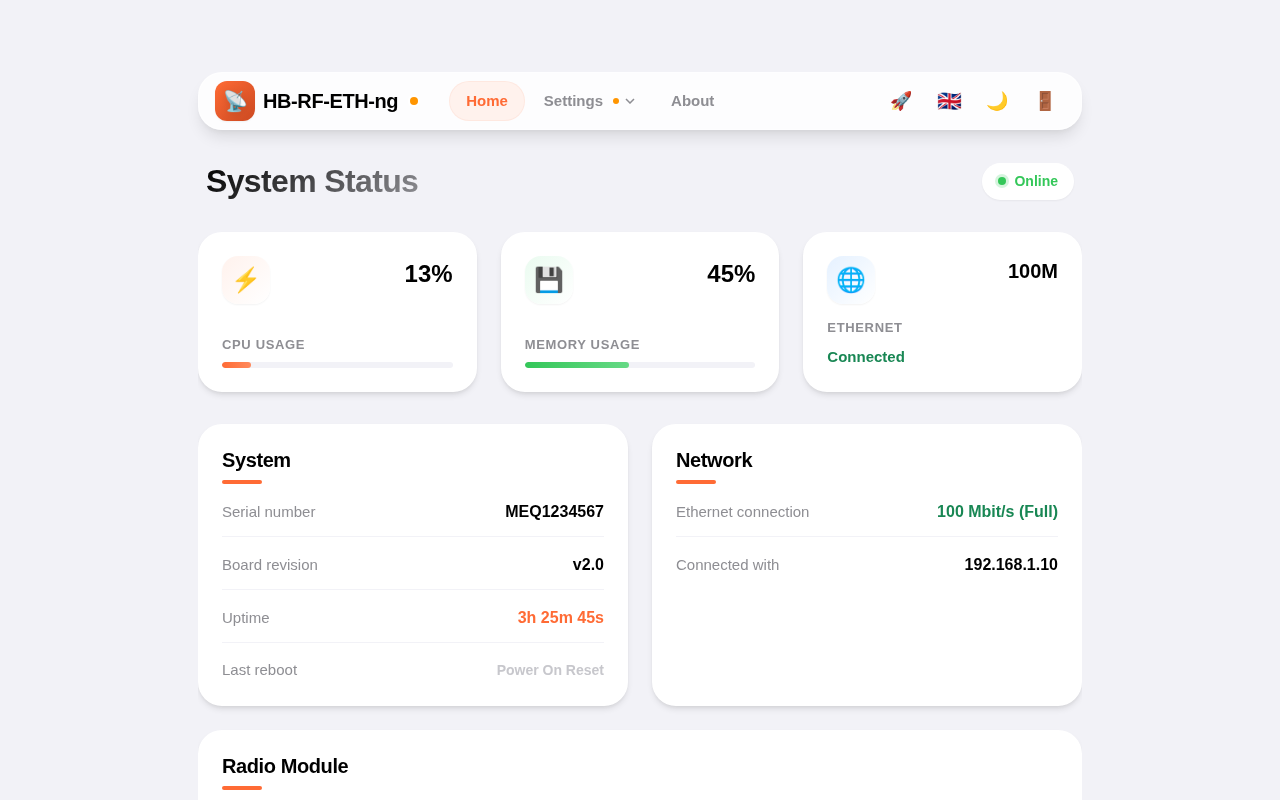
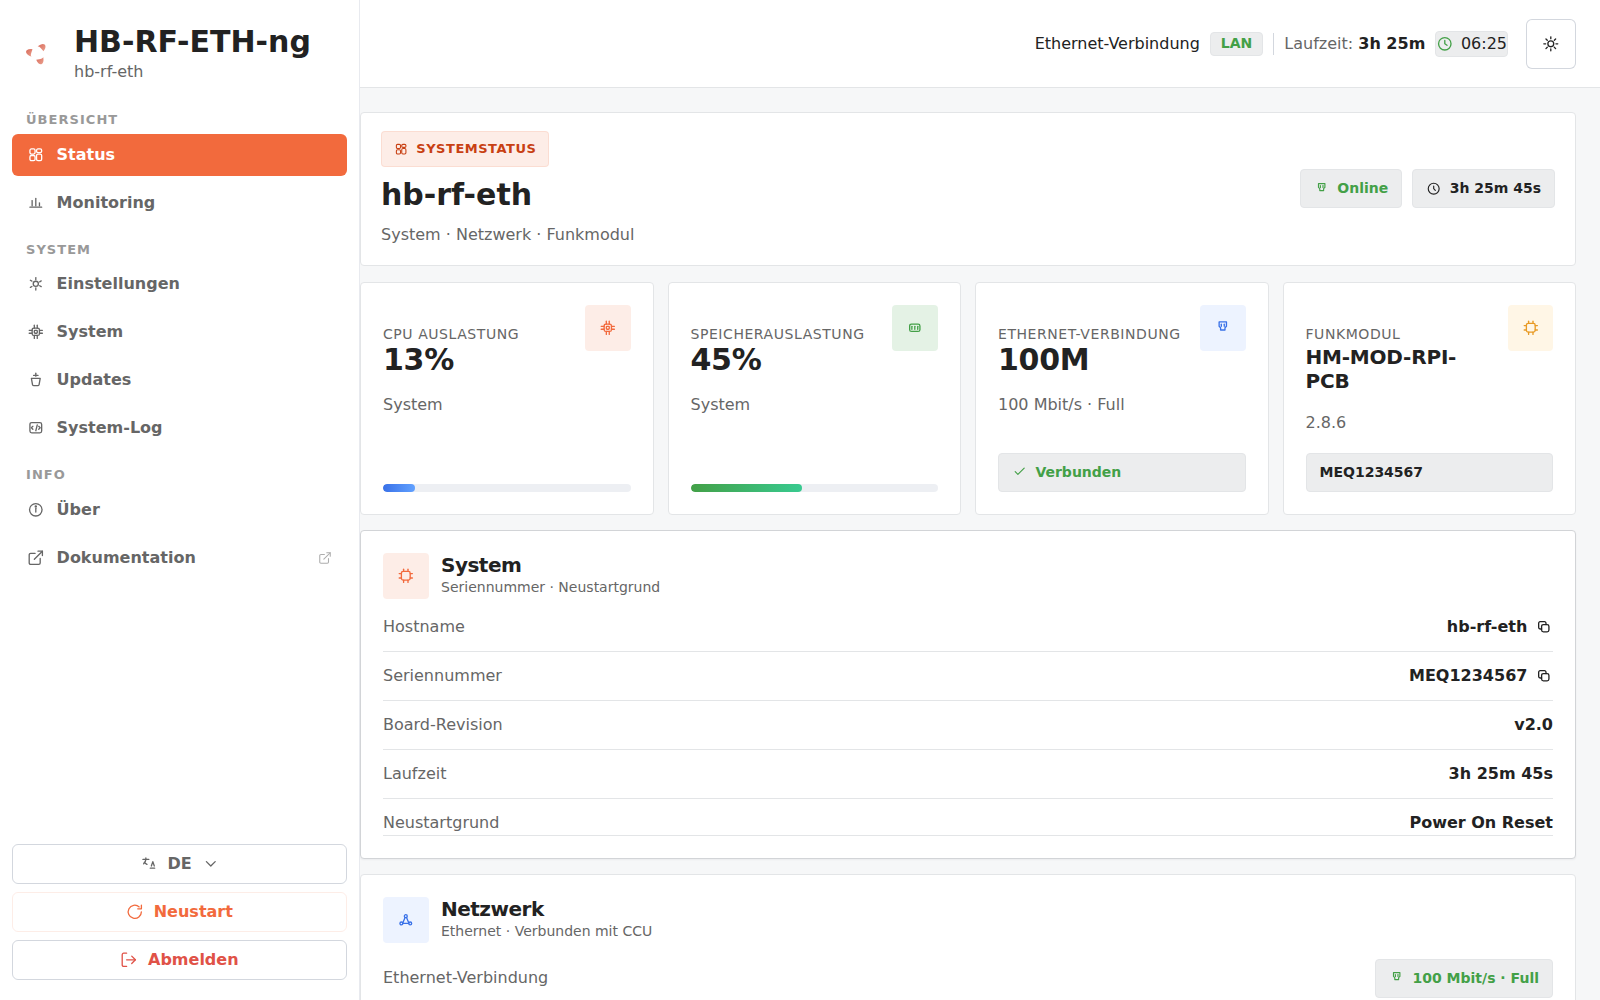
docs: refresh README screenshots from the current WebUI
Die README-Screenshots zeigten noch das alte Glass-UI (oranges Karten-
Layout mit Top-Navigation) und Funktionen, die es nicht mehr gibt --
etwa die Firmware-Seite mit "Netzwerk-Update" und "Firmware-Archiv".

Alle sieben Screenshots neu aus der laufenden WebUI erzeugt: aktuelle
Sidebar-Navigation, manueller Firmware-Upload, Monitoring mit MQTT /
CheckMK / Prometheus / Syslog / Notifications.

- generate_assets.spec.js: Viewport 1600x1000 statt 1280x800, Locale
  auf de-DE und Zeitzone auf Europe/Berlin gepinnt (die WebUI folgt
  sonst der Browsersprache), Mock-Version auf 2.2.7 gehoben, Hostname
  ergaenzt und /api/log/status gemockt, damit das System-Log echte
  Zeilen statt des "Log-Erfassung deaktiviert"-Platzhalters zeigt.
  Videoaufzeichnung entfernt, Testtimeout erhoeht (die About-Seite lief
  vorher in den Timeout).
- 09_Changelog.png entfernt: die Seite gibt es nicht mehr, das Bild war
  in der README nicht verlinkt.
- NewDesignHeader.vue: Die Wortmarke in der Sidebar war mit --fs-3xl
  (38px) breiter als die feste 360px-Sidebar und wurde von deren
  overflow-x: hidden abgeschnitten. --fs-2xl passt in die Spalte.

Claude-Session: https://claude.ai/code/session_01PGY2CfQ33vHXikEKGVcSDs

diff --git a/webui/tests/generate_assets.spec.js b/webui/tests/generate_assets.spec.js
@@ -8,18 +8,17 @@ const BASE_URL = 'http://127.0.0.1:1234';
 const gotoApp = (page, pathName) => page.goto(`${BASE_URL}${pathName}`, { waitUntil: 'domcontentloaded' });
 
 test.use({
-  viewport: { width: 1280, height: 800 },
-  video: {
-    mode: 'on',
-    size: { width: 1280, height: 800 },
-    dir: screenshotsDir
-  }
+  viewport: { width: 1600, height: 1000 },
+  // The WebUI picks its language from the browser, and the README these
+  // screenshots feed is German - pin both so captures stay reproducible.
+  locale: 'de-DE',
+  timezoneId: 'Europe/Berlin'
 });
 
 test.describe('Generate Assets', () => {
 
-  test('capture screenshots and video', async ({ page }) => {
-    test.setTimeout(90000);
+  test('capture README screenshots', async ({ page }) => {
+    test.setTimeout(180000);
     // --- Mocks ---
 
     // SysInfo (Dashboard data)
@@ -29,7 +28,8 @@ test.describe('Generate Assets', () => {
         body: JSON.stringify({
           sysInfo: {
             serial: "MEQ1234567",
-            currentVersion: "2.1.11",
+            hostname: "hb-rf-eth",
+            currentVersion: "2.2.7",
             latestVersion: "n/a",
             rawUartRemoteAddress: "192.168.1.10",
             memoryUsage: 45.2,
@@ -124,6 +124,16 @@ test.describe('Generate Assets', () => {
         });
     });
 
+    // /api/log/status decides whether the viewer renders the live buffer or the
+    // "capture disabled" placeholder. Registered after the generic
+    // '**/api/log*' route so this more specific handler wins.
+    await page.route('**/api/log/status*', async route => {
+        await route.fulfill({
+            contentType: 'application/json',
+            body: JSON.stringify({ enabled: true })
+        });
+    });
+
     // --- Execution ---
 
     // Ensure dir exists
@@ -185,7 +195,5 @@ test.describe('Generate Assets', () => {
     await page.waitForSelector('.about-page', { timeout: 5000 }).catch(() => {});
     await page.waitForTimeout(1000);
     await page.screenshot({ path: path.join(screenshotsDir, '08_About.png') });
-
-    // Video will be saved automatically to screenshotsDir with a random name.
   });
 });

diff --git a/webui/src/components/NewDesignHeader.vue b/webui/src/components/NewDesignHeader.vue
@@ -428,7 +428,10 @@ onUnmounted(() => {
 }
 
 .brand-copy strong {
-  font-size: var(--fs-3xl);
+  /* --fs-3xl (38px) makes the wordmark wider than the fixed 360px sidebar, so
+     the trailing characters were clipped by the sidebar's overflow-x: hidden.
+     --fs-2xl keeps the display weight while fitting the column. */
+  font-size: var(--fs-2xl);
   line-height: var(--line-height-tight);
   letter-spacing: 0;
   font-weight: var(--font-weight-heavy);

diff --git a/README.md b/README.md
@@ -89,21 +89,29 @@ python3 rename_webui_files.py
 - Für produktive Systeme sollten bevorzugt Stable-Releases verwendet werden; Pre-Releases eignen sich zum Vorabtesten neuer Fixes.
 
 ### Screenshots
-| Login | Dashboard |
-| :---: | :---: |
-| ![Login](screenshots/01_Login.png) | ![Dashboard](screenshots/02_Dashboard.png) |
+Die Aufnahmen zeigen die aktuelle WebUI im Auslieferungszustand (helles Theme,
+Akzentfarbe `#f26a3d`). Theme und Akzentfarbe lassen sich unter
+*Einstellungen → Design* umstellen.
 
-| Settings | Monitoring |
+| Anmeldung | Status (Dashboard) |
 | :---: | :---: |
-| ![Settings](screenshots/04_Settings.png) | ![Monitoring](screenshots/05_Monitoring.png) |
+| ![Anmeldung](screenshots/01_Login.png) | ![Status](screenshots/02_Dashboard.png) |
 
-| Firmware Update | System Log |
+| Einstellungen | Monitoring |
 | :---: | :---: |
-| ![Firmware Update](screenshots/06_FirmwareUpdate.png) | ![System Log](screenshots/07_SystemLog.png) |
+| ![Einstellungen](screenshots/04_Settings.png) | ![Monitoring](screenshots/05_Monitoring.png) |
 
-| About |
+| Updates (Geräte-Firmware) | System-Log |
+| :---: | :---: |
+| ![Updates](screenshots/06_FirmwareUpdate.png) | ![System-Log](screenshots/07_SystemLog.png) |
+
+| Über |
 | :---: |
-| ![About](screenshots/08_About.png) |
+| ![Über](screenshots/08_About.png) |
+
+> Die Screenshots werden aus der laufenden WebUI erzeugt und nicht von Hand
+> nachbearbeitet. Neu aufnehmen mit:
+> `cd webui && npm install && npx playwright test tests/generate_assets.spec.js`
 
 ### Danksagung
 Ein großer Dank geht an **Alexander Reinert** für die Entwicklung der originalen HB-RF-ETH Firmware und Hardware. Seine Arbeit bildet die Grundlage für diese modernisierte Version.
